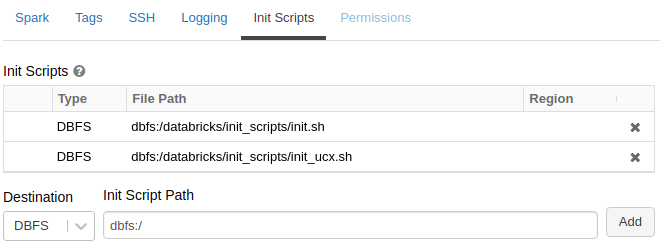
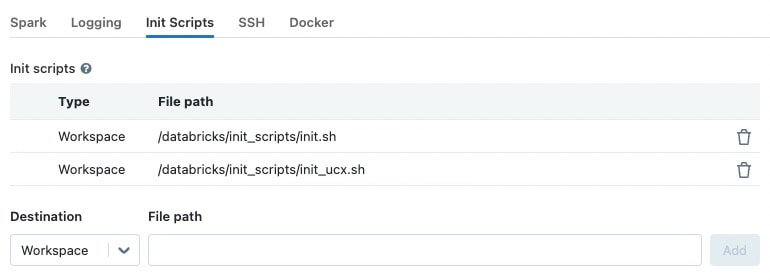
Save Databricks init scripts in the workspace [databricks] (#8961)
* Save Databricks init scripts in the workspace [databricks]

To close: https://github.com/NVIDIA/spark-rapids/issues/8916

Init scripts in DBFS will be deprecated sept 1 2023.

Move Databricks init scripts in the workspace

* Change Databricks init scripts to workspace from dbfs for docs

* Reuse init scripts path

* Update copyright

* Move uploading and cleaning Databricks workspace initscripts into the common functions

---------

diff --git a/jenkins/databricks/clusterutils.py b/jenkins/databricks/clusterutils.py
@@ -1,4 +1,4 @@
-# Copyright (c) 2020-2021, NVIDIA CORPORATION.
+# Copyright (c) 2020-2023, NVIDIA CORPORATION.
 #
 # Licensed under the Apache License, Version 2.0 (the "License");
 # you may not use this file except in compliance with the License.
@@ -52,7 +52,7 @@ class ClusterUtils(object):
             for path in path_list:
                 templ['init_scripts'].append(
                     {
-                        'dbfs' : {
+                        'workspace' : {
                             'destination' : path
                         }
                     }

diff --git a/jenkins/databricks/create.py b/jenkins/databricks/create.py
@@ -34,7 +34,7 @@ def main():
   worker_type = 'g4dn.xlarge'
   driver_type = 'g4dn.xlarge'
   cloud_provider = 'aws'
-  # comma separated init scripts, e.g. dbfs:/foo,dbfs:/bar,...
+  # comma separated init scripts in Databricks workspace, e.g. /foo,/bar,...
   init_scripts = ''
   aws_zone='us-west-2c'
 

diff --git a/docs/additional-functionality/rapids-shuffle.md b/docs/additional-functionality/rapids-shuffle.md
@@ -394,7 +394,7 @@ sudo dpkg -i ucx-1.14.0.deb ucx-cuda-1.14.0.deb &&
 rm ucx-1.14.0-ubuntu20.04-mofed5-cuda11.tar.bz2 ucx-1.14.0.deb ucx-cuda-1.14.0.deb
 ```
 
-Save the script in DBFS and add it to the "Init Scripts" list:
+Save the script in Databricks workspace and add it to the "Init Scripts" list:
 
 ![Init scripts panel showing UCX init script](../img/Databricks/initscript_ucx.png)
 
